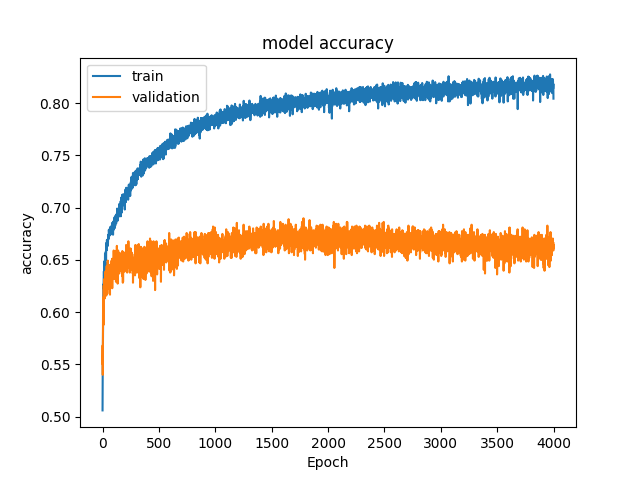
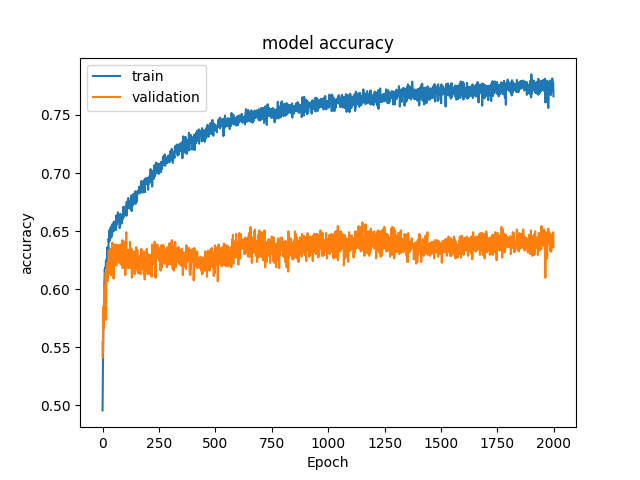
added to model_data

diff --git a/model_data.py b/model_data.py
@@ -3,6 +3,7 @@
 
 import pandas as pd
 from scipy import stats
+import numpy as np
 
 MOST_RECENT_FILE = "db_121618_515pm.csv"
 
@@ -90,6 +91,16 @@ def analytics(df):
 	grouped_df = grouped_df.agg({'index': lambda x: tuple(stats.mode(x)[0])[0]})
 	print("There are " + str(len(list(grouped_df.iterrows()))) + " separate (urinal, age, gender, height) scenarios")
 
+	people_df = df.groupby(['name'])['name']
+	people_df = people_df.agg(['count'])
+	
+	pd.options.display.max_rows = 125
+	print(people_df)
+	per_person = people_df['count'].tolist()
+	print("Mean number of responses per person: " + str(np.mean(per_person)))
+	print("Median number of responses per person: " + str(np.median(per_person)))
+	print("Min number of responses by one person: " + str(np.min(per_person)))
+	print("Max number of responses by one person: " + str(np.max(per_person)))
 
 	print("The average number of empty urinals over the scnarios: " + str(df['empties'].mean()))
 	print("The number of scenarios with an empty stall: " + str(len(df[df['urinal6'] == 'stall_empty'])))

diff --git a/neural_model.py b/neural_model.py
@@ -157,13 +157,13 @@ if __name__ == "__main__":
 	model, history = fit_model(model, train_data)
 	print(list(df.columns.values))
 
-	# plt.plot(history.history['categorical_accuracy'][::10])
-	# plt.plot(history.history['val_categorical_accuracy'][::10])
-	# plt.title('model accuracy')
-	# plt.ylabel('accuracy')
-	# plt.xlabel('Epoch')
-	# plt.legend(['train', 'validation'], loc='upper left')
-	# plt.show()
+	plt.plot(history.history['categorical_accuracy'])
+	plt.plot(history.history['val_categorical_accuracy'])
+	plt.title('model accuracy')
+	plt.ylabel('accuracy')
+	plt.xlabel('Epoch')
+	plt.legend(['train', 'validation'], loc='upper left')
+	plt.show()
 
 	test_acc = get_accuracy(model, test_data)
 	print(test_acc)
@@ -171,4 +171,4 @@ if __name__ == "__main__":
 	df = predict_test_data(df, model, test_data, test_rows)
 
 	# Write test data to file
-	df.to_csv(MOST_RECENT_FILE)
+	# df.to_csv(MOST_RECENT_FILE)
